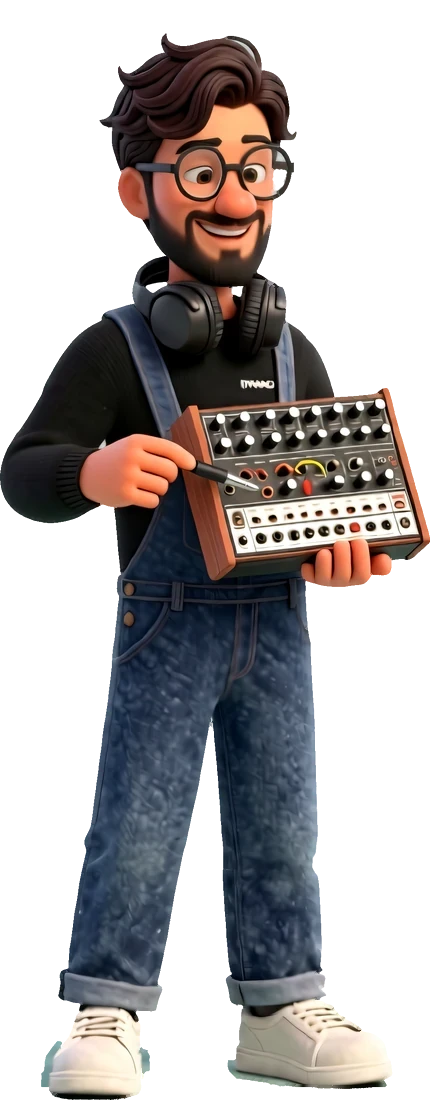
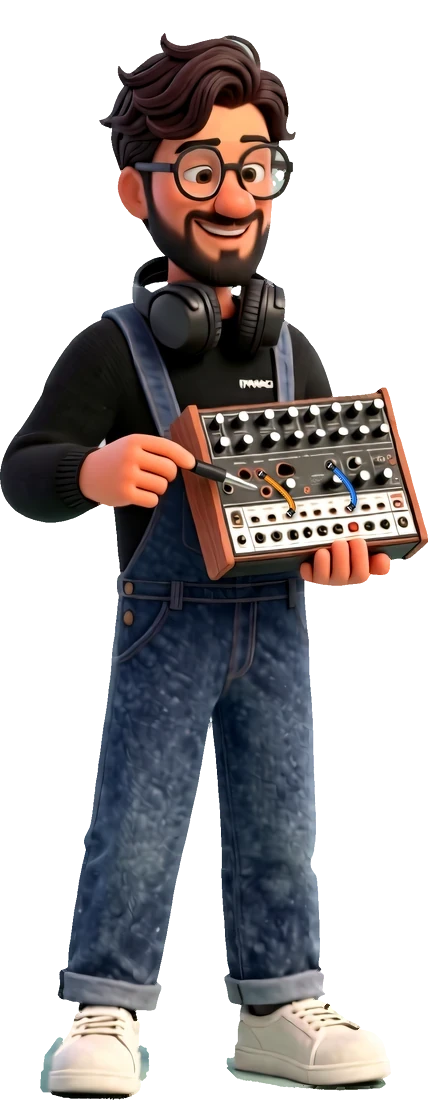
Soft grey foam on the recorder; neat front patch cables on the musician's synth
- The recording person's recorder on the map: the two capsules are light grey foam windscreens with a
  real porous texture, round, on the short dark stem
- The musician's analog synth: the tangled and hanging cables are gone; short neat cables run only on the
  front, each from an upper socket down to a lower one, with jack plugs (two on the first screen next to
  the plug in his hand, three on the map)

diff --git a/index.html b/index.html
@@ -11,35 +11,35 @@
 <link rel="preconnect" href="https://fonts.gstatic.com" crossorigin>
 <link rel="stylesheet" href="https://fonts.googleapis.com/css2?family=Archivo:wdth,wght@62..125,100..900&family=Roboto+Flex:wdth,wght@25..151,100..1000&family=Montserrat:wght@600..900&display=swap">
 <script>try{if(localStorage.getItem("sfx-lang")==="uk"){document.documentElement.lang="uk";document.documentElement.classList.add("i18n-wait")}}catch(e){}</script>
-<link rel="stylesheet" href="css/style.css?v=202610240913">
+<link rel="stylesheet" href="css/style.css?v=202610241727">
 <link rel="preload" as="image" href="assets/system/scene-forest.webp" fetchpriority="high">
 <script type="importmap">
 {
   "imports": {
     "three": "https://cdn.jsdelivr.net/npm/three@0.170.0/build/three.module.min.js",
     "three/addons/": "https://cdn.jsdelivr.net/npm/three@0.170.0/examples/jsm/",
-    "./js/audio.js": "./js/audio.js?v=202610240913",
-    "./js/boom-frame.js": "./js/boom-frame.js?v=202610240913",
-    "./js/content.js": "./js/content.js?v=202610240913",
-    "./js/gift.js": "./js/gift.js?v=202610240913",
-    "./js/i18n-boot.js": "./js/i18n-boot.js?v=202610240913",
-    "./js/i18n-uk.js": "./js/i18n-uk.js?v=202610240913",
-    "./js/i18n.js": "./js/i18n.js?v=202610240913",
-    "./js/main.js": "./js/main.js?v=202610240913",
-    "./js/map.js": "./js/map.js?v=202610240913",
-    "./js/music/music.js": "./js/music/music.js?v=202610240913",
-    "./js/music/sound.js": "./js/music/sound.js?v=202610240913",
-    "./js/phone-speakers.js": "./js/phone-speakers.js?v=202610240913",
-    "./js/studio-anim.js": "./js/studio-anim.js?v=202610240913",
-    "./js/studio-console.js": "./js/studio-console.js?v=202610240913",
-    "./js/studio-foley.js": "./js/studio-foley.js?v=202610240913",
-    "./js/studio-piano.js": "./js/studio-piano.js?v=202610240913",
-    "./js/team-carousel.js": "./js/team-carousel.js?v=202610240913"
+    "./js/audio.js": "./js/audio.js?v=202610241727",
+    "./js/boom-frame.js": "./js/boom-frame.js?v=202610241727",
+    "./js/content.js": "./js/content.js?v=202610241727",
+    "./js/gift.js": "./js/gift.js?v=202610241727",
+    "./js/i18n-boot.js": "./js/i18n-boot.js?v=202610241727",
+    "./js/i18n-uk.js": "./js/i18n-uk.js?v=202610241727",
+    "./js/i18n.js": "./js/i18n.js?v=202610241727",
+    "./js/main.js": "./js/main.js?v=202610241727",
+    "./js/map.js": "./js/map.js?v=202610241727",
+    "./js/music/music.js": "./js/music/music.js?v=202610241727",
+    "./js/music/sound.js": "./js/music/sound.js?v=202610241727",
+    "./js/phone-speakers.js": "./js/phone-speakers.js?v=202610241727",
+    "./js/studio-anim.js": "./js/studio-anim.js?v=202610241727",
+    "./js/studio-console.js": "./js/studio-console.js?v=202610241727",
+    "./js/studio-foley.js": "./js/studio-foley.js?v=202610241727",
+    "./js/studio-piano.js": "./js/studio-piano.js?v=202610241727",
+    "./js/team-carousel.js": "./js/team-carousel.js?v=202610241727"
   }
 }
 </script>
-<script type="module" src="js/i18n-boot.js?v=202610240913"></script>
-<script type="module" src="js/main.js?v=202610240913"></script>
+<script type="module" src="js/i18n-boot.js?v=202610241727"></script>
+<script type="module" src="js/main.js?v=202610241727"></script>
 </head>
 <body>
 <a class="skip" href="#main">Skip to content</a>
@@ -98,7 +98,7 @@
             </div>
           </figure>
           <figure class="team__p" data-member="mix" style="--h: .905">
-            <img class="team__body" src="assets/team/mix.webp" srcset="assets/team/mix-560.webp 219w, assets/team/mix.webp 430w" sizes="(max-width: 1024px) 34vw, 17vw" alt="Illustration: a team member patching a small analog synthesizer" width="430" height="1100" decoding="async" draggable="false">
+            <img class="team__body" src="assets/team/mix.webp" srcset="assets/team/mix-560.webp 218w, assets/team/mix.webp 428w" sizes="(max-width: 1024px) 34vw, 17vw" alt="Illustration: a team member patching a small analog synthesizer" width="428" height="1100" decoding="async" draggable="false">
           </figure>
         </div>
         <div class="team__bar">
@@ -166,7 +166,7 @@
             <section class="bay" data-bay="music" aria-labelledby="bay-music">
               <h3 class="bay__title" id="bay-music"><span class="bay__dot" data-bay-dot="music" aria-hidden="true"></span>Music</h3>
               <div class="bay__desk">
-                <img class="bay__person bay__person--mix" src="assets/team/mix-map-560.webp" srcset="assets/team/mix-map-560.webp 221w, assets/team/mix-map.webp 434w" sizes="150px" alt="Illustration: a musician patching a small analog synthesizer" width="434" height="1100" loading="lazy" decoding="async">
+                <img class="bay__person bay__person--mix" src="assets/team/mix-map-560.webp" srcset="assets/team/mix-map-560.webp 220w, assets/team/mix-map.webp 431w" sizes="150px" alt="Illustration: a musician patching a small analog synthesizer" width="431" height="1100" loading="lazy" decoding="async">
                 <div class="principle__art principle__art--play" id="card-music" data-scene="keys" tabindex="0" role="group" aria-label="A small keyboard you can play" aria-describedby="piano-help"><span class="principle__hint" aria-hidden="true">Play me</span><span class="visually-hidden" id="piano-help">Click or tap the keys. With the keyboard, use A to L for white keys and W, E, T, Y, U, O, P for black keys.</span><img class="principle__img" src="assets/studio/music-640.webp" srcset="assets/studio/music-640.webp 640w, assets/studio/music-1024.webp 1024w" sizes="(max-width: 760px) 92vw, 300px" width="1024" height="768" loading="lazy" decoding="async" alt=""></div>
                 <button class="zoom-btn" type="button" data-zoom-open="card-music" data-zoom-label="Music" aria-label="Open the keyboard larger"><svg viewBox="0 0 24 24" aria-hidden="true"><path d="M14 4h6v6M20 4l-7 7M10 20H4v-6M4 20l7-7"/></svg></button>
               </div>

diff --git a/js/main.js b/js/main.js
@@ -72,7 +72,7 @@ function initHeader() {
 // line on top, the phone under it, the team under the phone. The people's tops come from their pictures:
 // bands of their silhouettes, every 4 % of the height (_dev/tools/team_silhouette.py), her microphone from
 // js/boom-frame.js; thin things (her pole) are left out.
-const SILHOUETTE = {"test":[[0.0,0.04,0.454,0.646],[0.04,0.08,0.413,0.808],[0.08,0.12,0.395,0.816],[0.12,0.16,0.405,0.789],[0.16,0.2,0.38,0.697],[0.2,0.24,0.018,0.726],[0.24,0.28,0.004,0.871],[0.28,0.32,0.0,0.918],[0.32,0.36,0.008,0.955],[0.36,0.4,0.047,0.988],[0.4,0.44,0.059,1.0],[0.44,0.48,0.131,0.996],[0.48,0.52,0.276,0.975],[0.52,0.56,0.274,0.863],[0.56,0.6,0.288,0.787]],"rec":[[0.08,0.12,0.547,0.956],[0.12,0.16,0.54,1.0],[0.16,0.2,0.543,1.0],[0.2,0.24,0.556,0.954],[0.24,0.28,0.556,0.945],[0.28,0.32,0.355,0.932],[0.32,0.36,0.361,0.89],[0.36,0.4,0.324,0.936],[0.4,0.44,0.324,0.971],[0.44,0.48,0.354,0.994],[0.48,0.52,0.49,0.998],[0.52,0.56,0.481,0.965],[0.56,0.6,0.499,0.901]],"mix":[[0.0,0.04,0.458,0.586],[0.04,0.08,0.274,0.663],[0.08,0.12,0.233,0.674],[0.12,0.16,0.26,0.688],[0.16,0.2,0.274,0.663],[0.2,0.24,0.333,0.633],[0.24,0.28,0.279,0.665],[0.28,0.32,0.149,0.74],[0.32,0.36,0.095,0.907],[0.36,0.4,0.03,0.937],[0.4,0.44,0.0,0.965],[0.44,0.48,0.0,0.993],[0.48,0.52,0.27,1.0],[0.52,0.56,0.272,0.907],[0.56,0.6,0.26,0.723]]};
+const SILHOUETTE = {"test":[[0.0,0.04,0.454,0.646],[0.04,0.08,0.413,0.808],[0.08,0.12,0.395,0.816],[0.12,0.16,0.405,0.789],[0.16,0.2,0.38,0.697],[0.2,0.24,0.018,0.726],[0.24,0.28,0.004,0.871],[0.28,0.32,0.0,0.918],[0.32,0.36,0.008,0.955],[0.36,0.4,0.047,0.988],[0.4,0.44,0.059,1.0],[0.44,0.48,0.131,0.996],[0.48,0.52,0.276,0.975],[0.52,0.56,0.274,0.863],[0.56,0.6,0.288,0.787]],"rec":[[0.08,0.12,0.547,0.956],[0.12,0.16,0.54,1.0],[0.16,0.2,0.543,1.0],[0.2,0.24,0.556,0.954],[0.24,0.28,0.556,0.945],[0.28,0.32,0.355,0.932],[0.32,0.36,0.361,0.89],[0.36,0.4,0.324,0.936],[0.4,0.44,0.324,0.971],[0.44,0.48,0.354,0.994],[0.48,0.52,0.49,0.998],[0.52,0.56,0.481,0.965],[0.56,0.6,0.499,0.901]],"mix":[[0.0,0.04,0.456,0.586],[0.04,0.08,0.276,0.664],[0.08,0.12,0.231,0.673],[0.12,0.16,0.259,0.689],[0.16,0.2,0.276,0.671],[0.2,0.24,0.332,0.633],[0.24,0.28,0.273,0.666],[0.28,0.32,0.147,0.738],[0.32,0.36,0.096,0.909],[0.36,0.4,0.028,0.937],[0.4,0.44,0.0,0.965],[0.44,0.48,0.002,0.993],[0.48,0.52,0.271,1.0],[0.52,0.56,0.271,0.907],[0.56,0.6,0.262,0.722]]};
 const PHONE_RATIO = 2.05;
 
 // every place the people pass on the carousel (k = -1 left ... 0 middle ... +1 right), as rects on the stage
